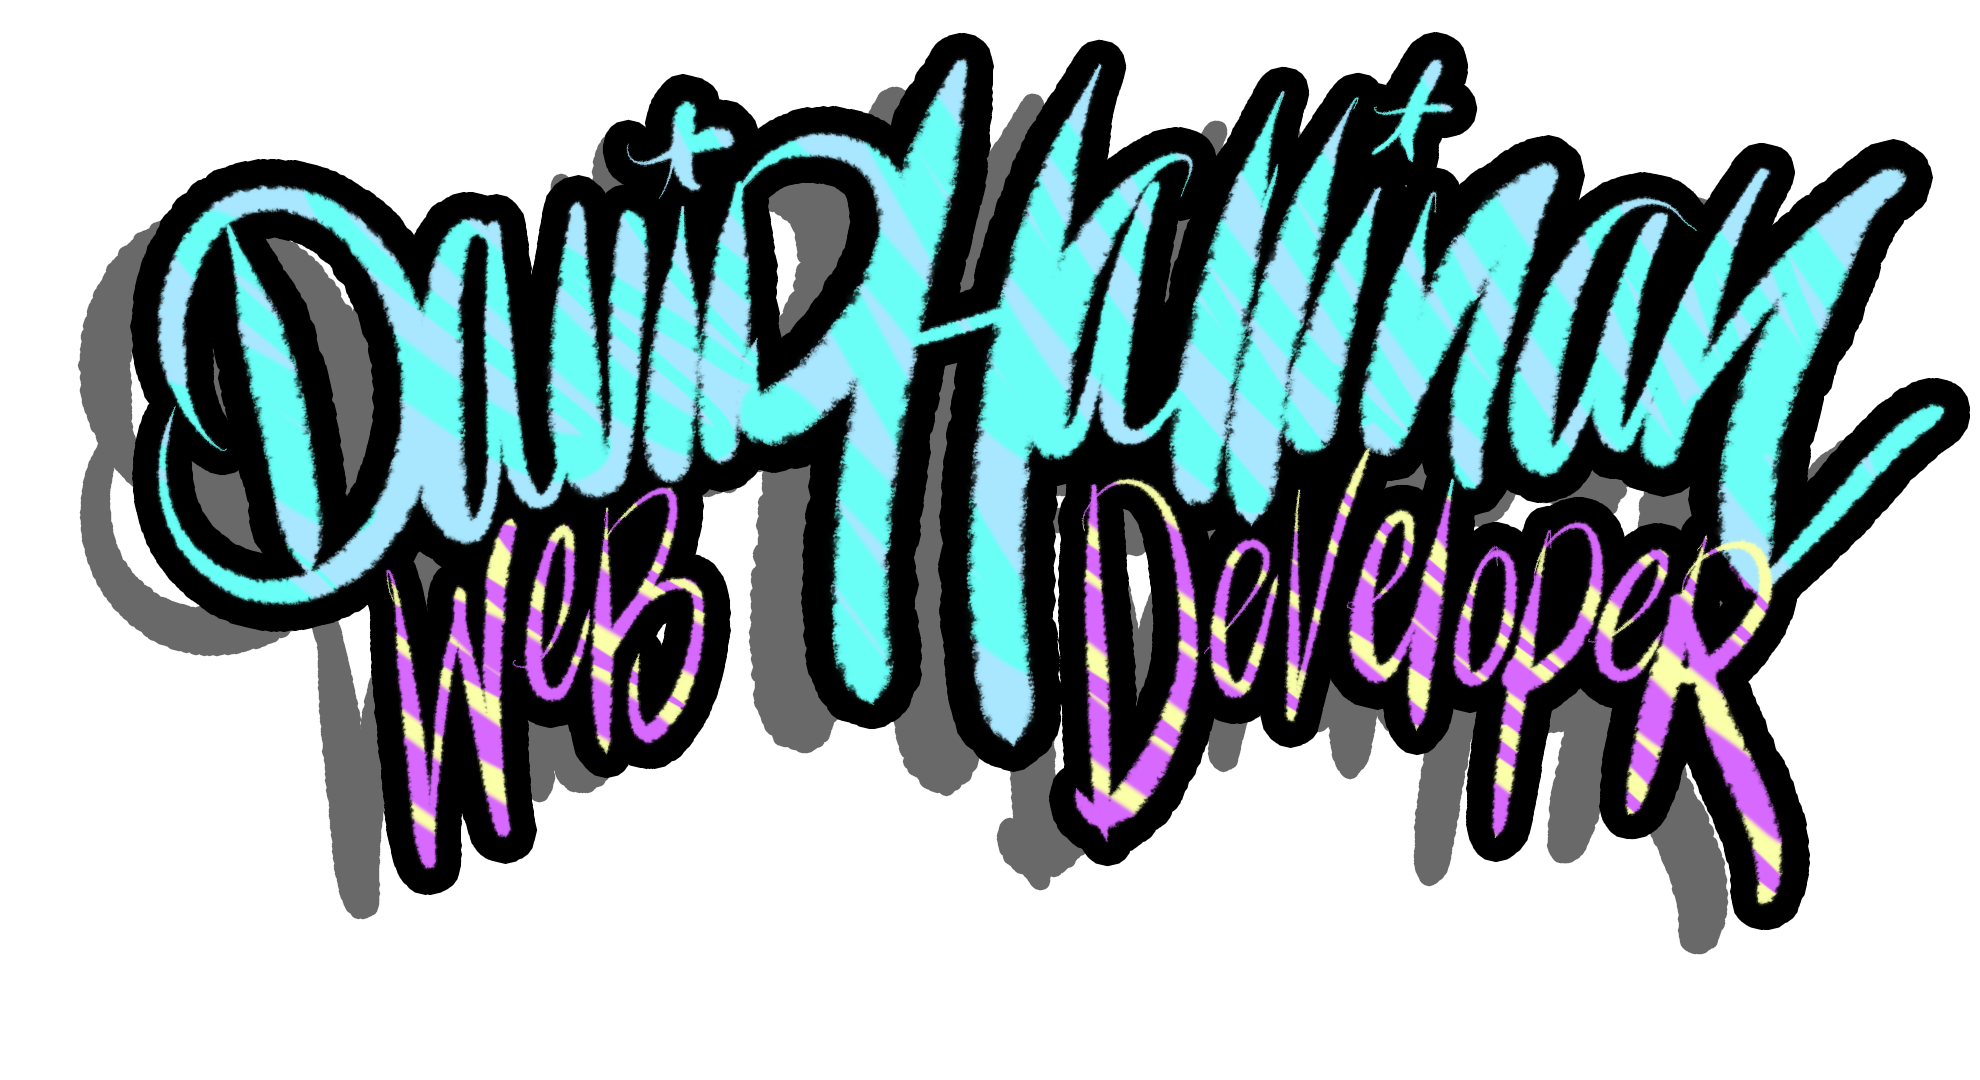
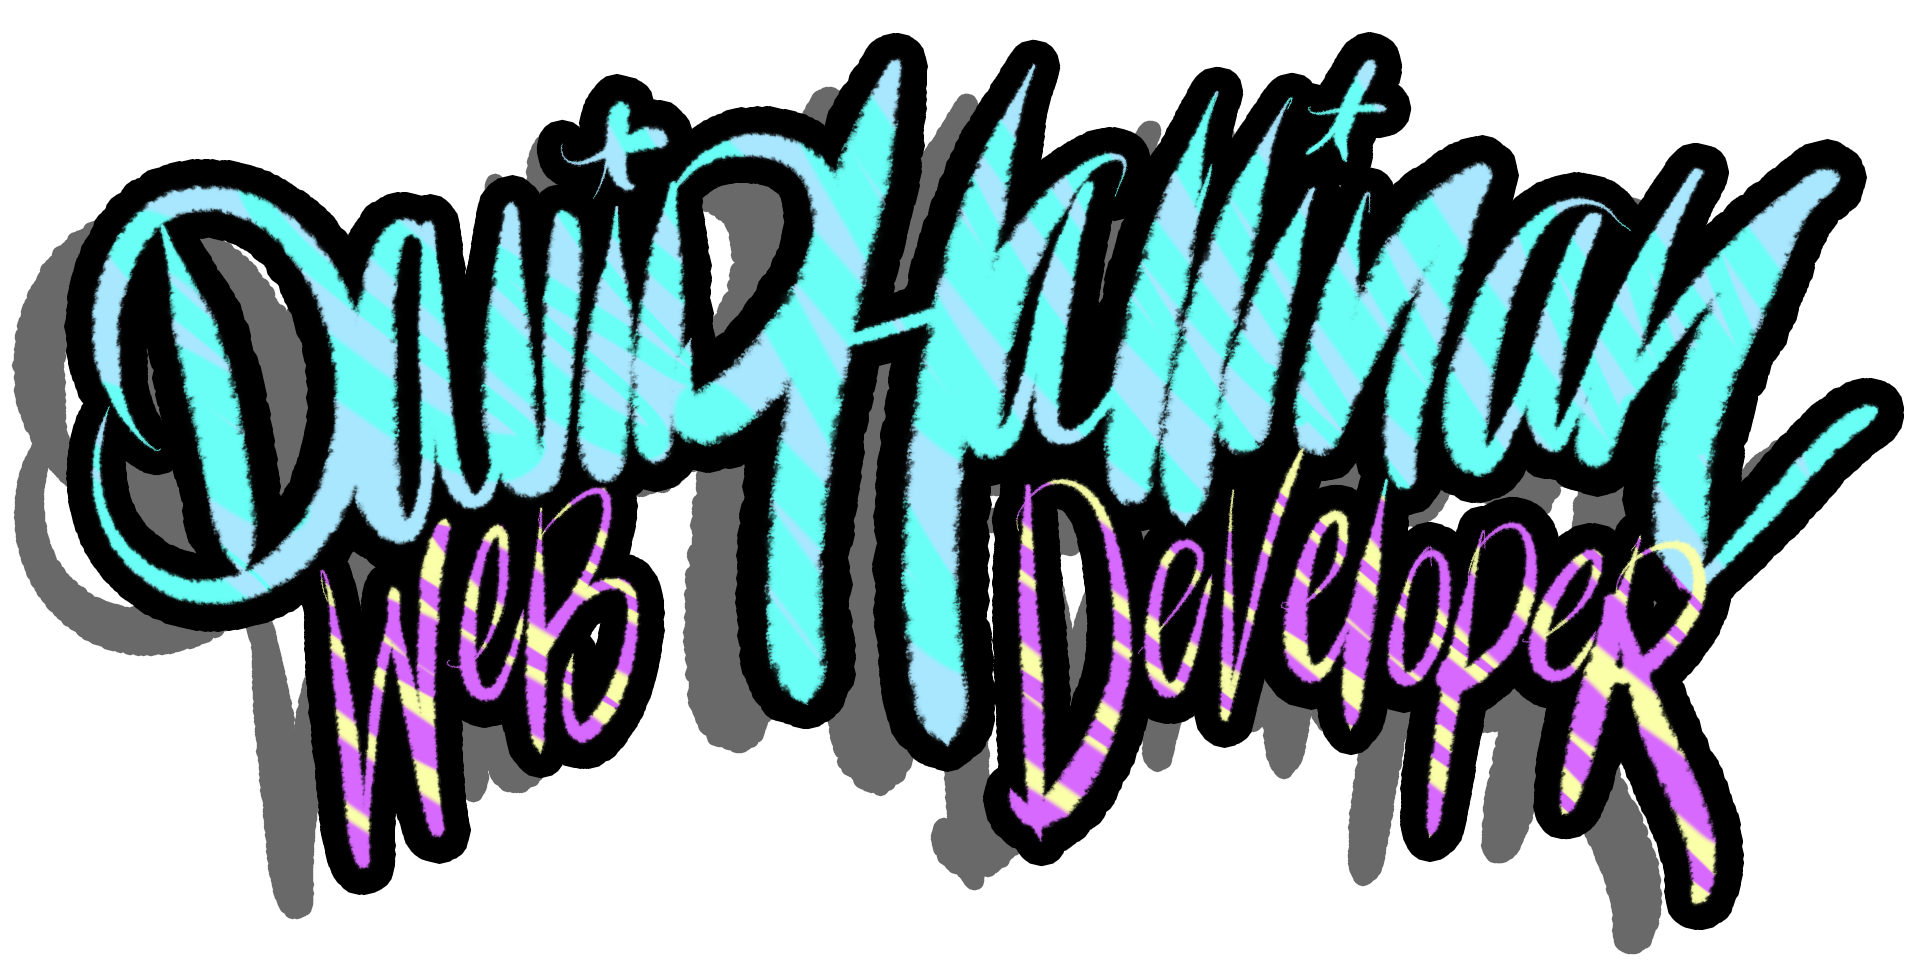
replace footer graphic

diff --git a/index.html b/index.html
@@ -208,7 +208,7 @@
                 </div>
             </div>
         </div>
-        <img src="img/DavidHallinan.png" class="img-responsive main-logo-bottom" alt="">
+        <img src="img/DH2.png" class="img-responsive main-logo-bottom" alt="">
     </section>
 
     <!-- jQuery -->
